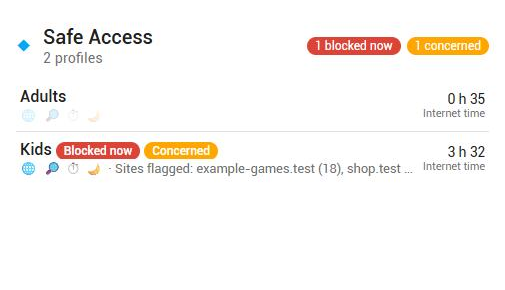
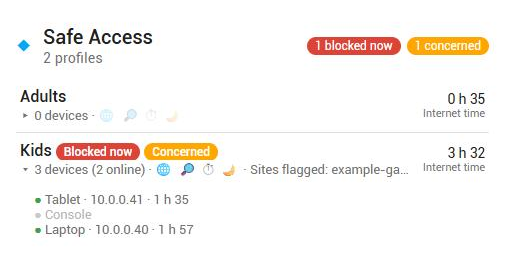
v0.5.2: Safe Access devices per profile, profile shown on each client

diff --git a/custom_components/synology_srm_plus/www/synology-srm-card.js b/custom_components/synology_srm_plus/www/synology-srm-card.js
@@ -21,7 +21,7 @@ const I18N = {
     search: 'Search a client…', all: 'All', sort: 'Sort', name: 'Name', download: 'Download',
     upload: 'Upload', nothing: 'No client', no_data: 'No Synology SRM Plus data found.', offline: 'Offline', ip: 'IP address',
     offline_clients: 'Offline clients', last_seen: 'Last seen', ago: 'ago', router_throughput: 'Router throughput',
-    devices: 'devices', ports: 'Ports', usb: 'USB storage', no_link: 'no link', security: 'Security', threat_prevention: 'Threat prevention', profiles: 'profiles', threats: 'Threat events',
+    devices: 'devices', ports: 'Ports', usb: 'USB storage', no_link: 'no link', security: 'Security', threat_prevention: 'Threat prevention', profiles: 'profiles', online: 'online', threats: 'Threat events',
     last24: '24 h', last7: '7 days', new_devices: 'New devices', admin_sessions: 'Admin sessions', blocked_ips: 'Blocked IPs',
     forwards: 'Port forwards', protected: 'Protected', unprotected: 'Not protected', exposed: 'Admin reachable from the Internet',
     external_session: 'Admin session from the Internet', safe: 'Safe Access', internet_time: 'Internet time',
@@ -34,7 +34,7 @@ const I18N = {
       guest: 'Guest', blocked: 'Blocked', parental_control: 'Parental control', qos: 'QoS',
       high_priority: 'High priority', low_priority: 'Low priority', beamforming: 'Beamforming',
       interface: 'Interface', connection: 'Link', band: 'Band', wifi_bytes_rx: 'Wi-Fi bytes (rx)',
-      wifi_bytes_tx: 'Wi-Fi bytes (tx)', last_seen: 'Last seen',
+      wifi_bytes_tx: 'Wi-Fi bytes (tx)', last_seen: 'Last seen', safe_profile: 'Safe Access profile',
     },
   },
   fr: {
@@ -45,7 +45,7 @@ const I18N = {
     search: 'Rechercher un client…', all: 'Tous', sort: 'Tri', name: 'Nom', download: 'Téléchargement',
     upload: 'Envoi', nothing: 'Aucun client', no_data: 'Aucune donnée Synology SRM Plus trouvée.', offline: 'Hors ligne', ip: 'Adresse IP',
     offline_clients: 'Clients hors ligne', last_seen: 'Vu il y a', ago: '', router_throughput: 'Débit du routeur',
-    devices: 'appareils', ports: 'Ports', usb: 'Stockage USB', no_link: 'pas de lien', security: 'Sécurité', threat_prevention: 'Protection contre les menaces', profiles: 'profils', threats: 'Menaces détectées',
+    devices: 'appareils', ports: 'Ports', usb: 'Stockage USB', no_link: 'pas de lien', security: 'Sécurité', threat_prevention: 'Protection contre les menaces', profiles: 'profils', online: 'en ligne', threats: 'Menaces détectées',
     last24: '24 h', last7: '7 jours', new_devices: 'Nouveaux appareils', admin_sessions: "Sessions d'administration", blocked_ips: 'IP bloquées',
     forwards: 'Redirections de ports', protected: 'Protégé', unprotected: 'Non protégé', exposed: "Administration joignable depuis Internet",
     external_session: "Session d'administration depuis Internet", safe: 'Safe Access', internet_time: 'Temps sur internet',
@@ -58,7 +58,7 @@ const I18N = {
       guest: 'Invité', blocked: 'Bloqué', parental_control: 'Contrôle parental', qos: 'QoS',
       high_priority: 'Priorité haute', low_priority: 'Priorité basse', beamforming: 'Beamforming',
       interface: 'Interface', connection: 'Lien', band: 'Bande', wifi_bytes_rx: 'Octets Wi-Fi (rx)',
-      wifi_bytes_tx: 'Octets Wi-Fi (tx)', last_seen: 'Dernière connexion',
+      wifi_bytes_tx: 'Octets Wi-Fi (tx)', last_seen: 'Dernière connexion', safe_profile: 'Profil Safe Access',
     },
   },
 };
@@ -655,6 +655,7 @@ class SynologySrmSafeAccessCard extends SrmEntityCard {
     const hass = this._hass;
     const t = strings(hass);
     const all = (key) => found[key] || [];
+    this._open = this._open || new Set();
     const times = mapBy(all('safe_time'), 'profile');
     const status = mapBy(all('safe_status'), 'profile');
     const blocked = mapBy(all('safe_blocked'), 'profile');
@@ -668,16 +669,25 @@ class SynologySrmSafeAccessCard extends SrmEntityCard {
       (nConcerned ? `<span class="badge" style="background:var(--warning-color,#ffa600)">${nConcerned} ${esc(t.concerned.toLowerCase())}</span>` : '');
 
     const flag = (on, icon, label) => `<span title="${esc(label)}" style="opacity:${on ? 1 : 0.25};margin-right:6px">${icon}</span>`;
+    const hm = (minutes) => (Number.isFinite(minutes) ? `${Math.floor(minutes / 60)} h ${String(Math.round(minutes % 60)).padStart(2, '0')}` : '');
     const rows = profiles
       .map((name) => {
         const tm = times[name];
         const a = tm.attributes;
-        const minutes = Number(tm.state);
-        const h = Number.isFinite(minutes) ? `${Math.floor(minutes / 60)} h ${String(Math.round(minutes % 60)).padStart(2, '0')}` : '';
+        const devs = Array.isArray(a.devices) ? a.devices : [];
+        const nOnline = devs.filter((d) => d.online).length;
+        const open = this._open.has(name);
         const hits = a.inappropriate_websites ? Object.entries(a.inappropriate_websites).map(([k, v]) => `${esc(k)} (${esc(v)})`).join(', ') : '';
-        return `<div class="row" style="grid-template-columns:1fr auto" data-entity="${esc(tm.entity_id)}"><div style="min-width:0"><div class="nm">${esc(name)}${isBlocked(name) ? ` <span class="badge bad">${esc(t.blocked_now)}</span>` : ''}${isConcerned(name) ? ` <span class="badge" style="background:var(--warning-color,#ffa600)">${esc(t.concerned)}</span>` : ''}</div>
-          <div class="meta">${flag(a.web_filter, '🌐', t.filter)}${flag(a.safe_search, '🔎', t.safe_search)}${flag(a.time_quota, '⏱', t.quota)}${flag(a.block_time, '🌙', t.schedule)}${hits ? `· ${esc(t.hits)}: ${hits}` : ''}</div></div>
-          <div class="rt"><div>${esc(h)}</div><div class="meta">${esc(t.internet_time)}</div></div></div>`;
+        const deviceList = open
+          ? `<div style="grid-column:1/-1;padding:4px 0 2px 14px">${
+              devs
+                .map((d) => `<div class="meta" style="opacity:${d.online ? 1 : 0.55}"><span style="color:${d.online ? 'var(--success-color,#43a047)' : 'var(--disabled-text-color,#9e9e9e)'}">●</span> ${esc(d.name)}${d.ip ? ` · ${esc(d.ip)}` : ''}${Number.isFinite(Number(d.internet_minutes)) && d.internet_minutes > 0 ? ` · ${esc(hm(Number(d.internet_minutes)))}` : ''}</div>`)
+                .join('') || `<div class="meta">${esc(t.none)}</div>`
+            }</div>`
+          : '';
+        return `<div class="row" style="grid-template-columns:1fr auto" data-profile="${esc(name)}"><div style="min-width:0"><div class="nm">${esc(name)}${isBlocked(name) ? ` <span class="badge bad">${esc(t.blocked_now)}</span>` : ''}${isConcerned(name) ? ` <span class="badge" style="background:var(--warning-color,#ffa600)">${esc(t.concerned)}</span>` : ''}</div>
+          <div class="meta">${open ? '▾' : '▸'} ${devs.length} ${esc(t.devices)}${devs.length ? ` (${nOnline} ${esc(t.online)})` : ''} · ${flag(a.web_filter, '🌐', t.filter)}${flag(a.safe_search, '🔎', t.safe_search)}${flag(a.time_quota, '⏱', t.quota)}${flag(a.block_time, '🌙', t.schedule)}${hits ? `· ${esc(t.hits)}: ${hits}` : ''}</div></div>
+          <div class="rt"><div>${esc(hm(Number(tm.state)))}</div><div class="meta">${esc(t.internet_time)}</div></div>${deviceList}</div>`;
       })
       .join('');
 
@@ -686,6 +696,13 @@ class SynologySrmSafeAccessCard extends SrmEntityCard {
         <div class="head"><ha-icon icon="mdi:account-child-circle"></ha-icon><div><div class="title">${esc(this._config.title || t.safe)}</div><div class="sub">${profiles.length} ${esc(t.profiles)}</div></div><div class="badges">${badges}</div></div>
         ${rows || `<div class="empty">${esc(t.none)}</div>`}
       </ha-card>`;
+    this.shadowRoot.querySelectorAll('[data-profile]').forEach((el) =>
+      el.addEventListener('click', () => {
+        const name = el.dataset.profile;
+        this._open.has(name) ? this._open.delete(name) : this._open.add(name);
+        this._sig = null;
+        this._update();
+      }));
   }
 }
 

diff --git a/custom_components/synology_srm_plus/coordinator.py b/custom_components/synology_srm_plus/coordinator.py
@@ -147,6 +147,16 @@ ENDPOINTS: dict[str, tuple[str, Callable[[synology_srm.Client], Any], int]] = {
         _raw("SYNO.SafeAccess.Overview.Statistics"),
         5,
     ),
+    "safe_devices": (
+        "SYNO.SafeAccess.AccessControl.ConfigGroup.Device",
+        _raw("SYNO.SafeAccess.AccessControl.ConfigGroup.Device"),
+        5,
+    ),
+    "safe_device_time": (
+        "SYNO.SafeAccess.AccessControl.ConfigGroup.Device.TimeSpent",
+        _raw("SYNO.SafeAccess.AccessControl.ConfigGroup.Device.TimeSpent"),
+        10,
+    ),
     "safe_schedule": (
         "SYNO.SafeAccess.AccessControl.Profile.Schedule",
         _raw("SYNO.SafeAccess.AccessControl.Profile.Schedule"),
@@ -374,7 +384,27 @@ class SrmCoordinator(DataUpdateCoordinator[dict[str, Any]]):
         self._poll += 1
         normalized = normalize_clients(results.get("clients"), results.get("wifi_devices"))
         results["client_list"], results["offline_list"] = normalized or (None, None)
+        self._annotate_safe_profiles(results)
         return results
+
+    @staticmethod
+    def _annotate_safe_profiles(results: dict[str, Any]) -> None:
+        """Add the Safe Access profile of each client (from the group -> devices map)."""
+        groups = (results.get("safe_devices") or {}).get("config_groups")
+        profiles = (results.get("safe_profiles") or {}).get("profiles")
+        if not isinstance(groups, list) or not isinstance(profiles, list):
+            return
+        names = {p.get("profile_id"): p.get("name") for p in profiles if isinstance(p, dict)}
+        by_mac: dict[str, list[str]] = {}
+        for group in groups:
+            name = names.get(group.get("config_group_id")) if isinstance(group, dict) else None
+            for mac in (group.get("devices") or []) if name else []:
+                by_mac.setdefault(str(mac).lower(), []).append(str(name))
+        for key in ("client_list", "offline_list"):
+            for client in results.get(key) or []:
+                profile = by_mac.get(client.get("mac", ""))
+                if profile:
+                    client["safe_profile"] = ", ".join(profile)
 
     def _track_last_seen(self, data: dict[str, Any]) -> None:
         """Remember when each client was last online; fill it in for offline ones."""

diff --git a/tests/smoke.py b/tests/smoke.py
@@ -83,6 +83,9 @@ DATA = {
     "port_forward": {"rules": []},
     "safe_profiles": {"profiles": [{"profile_id": 2, "name": "Kids", "enable_filter": True,
                                     "enable_safe_search": True, "enable_timequota": True, "enable_blocktime": True}]},
+    "safe_devices": {"config_groups": [{"config_group_id": 2, "devices": ["AA:BB:CC:00:00:01", "aa:bb:cc:00:00:04", "aa:bb:cc:00:00:77"]}]},
+    "safe_device_time": {"config_groups": [{"config_group_id": 2, "device_timespent": {
+        "aa:bb:cc:00:00:01": {"total_spent": {"normal": 42, "reward": 0}}}}]},
     "safe_stats": {"config_groups": [{"id": 2, "concerned_status": "concerned", "time_spent_on_internet": 212,
                                       "inappropriate_website_hit": {"example.test": {"total": 18, "aa:bb": 18}}}]},
     "safe_schedule": {"profiles": [{"profile_id": 2, "schedules": {
@@ -100,6 +103,7 @@ def main() -> int:
     assert "max_link_rate" not in offline[0] and "guest" not in offline[0], offline[0]
     assert online[1]["download"] == 4000000 and online[1]["interface"] == "wlan100", online[1]
     DATA["client_list"], DATA["offline_list"] = online, offline
+    coordinator.SrmCoordinator._annotate_safe_profiles(DATA)  # noqa: SLF001
 
     en = json.loads((ROOT / "custom_components/synology_srm_plus/translations/en.json").read_text("utf-8"))
     fr = json.loads((ROOT / "custom_components/synology_srm_plus/translations/fr.json").read_text("utf-8"))
@@ -129,6 +133,13 @@ def main() -> int:
             for field in re.findall(r"{(\w+)}", entry["name"]):
                 if field not in (desc.placeholders or {}):
                     errors.append(f"{label}: {lang} name needs placeholder {field}")
+
+    kids = next(d for _, d in descriptions if d.key == "safe_time_2")
+    devices = kids.attrs_fn(DATA)["devices"]
+    assert [x["name"] for x in devices] == ["Laptop", "aa:bb:cc:00:00:77", "Old phone"], devices
+    assert devices[0]["online"] and devices[0]["internet_minutes"] == 42, devices[0]
+    assert not devices[1]["online"], devices[1]
+    assert online[1]["safe_profile"] == "Kids", online[1]
 
     # secrets must not reach the log
     masked = coordinator.redact(

diff --git a/custom_components/synology_srm_plus/sensor.py b/custom_components/synology_srm_plus/sensor.py
@@ -836,6 +836,33 @@ def safe_schedule(d: dict[str, Any], pid: Any) -> dict[str, Any]:
     return found.get("schedules") or {}
 
 
+def _safe_devices(d: dict[str, Any], pid: Any) -> list[dict[str, Any]]:
+    """Devices of a Safe Access profile, with their name, state and internet time."""
+    group = _find(_dig(d.get("safe_devices"), "config_groups"), config_group_id=pid) or {}
+    spent_group = _find(_dig(d.get("safe_device_time"), "config_groups"), config_group_id=pid) or {}
+    times = spent_group.get("device_timespent")
+    times = {str(k).lower(): v for k, v in times.items()} if isinstance(times, dict) else {}
+    online = {c.get("mac"): c for c in d.get("client_list") or [] if c.get("mac")}
+    offline = {c.get("mac"): c for c in d.get("offline_list") or [] if c.get("mac")}
+    out: list[dict[str, Any]] = []
+    for raw in group.get("devices") or []:
+        mac = str(raw).lower()
+        client = online.get(mac) or offline.get(mac) or {}
+        entry: dict[str, Any] = {
+            "name": client.get("name") or mac,
+            "mac": mac,
+            "online": mac in online,
+        }
+        if client.get("ip"):
+            entry["ip"] = client["ip"]
+        minutes = _dig(times.get(mac), "total_spent", "normal")
+        if isinstance(minutes, (int, float)):
+            entry["internet_minutes"] = minutes
+        out.append(entry)
+    out.sort(key=lambda e: (not e["online"], str(e["name"]).lower()))
+    return out
+
+
 def _safe_attrs(d: dict[str, Any], pid: Any) -> dict[str, Any]:
     profile = _find(safe_profiles(d), profile_id=pid) or {}
     stat = safe_stat(d, pid)
@@ -843,6 +870,7 @@ def _safe_attrs(d: dict[str, Any], pid: Any) -> dict[str, Any]:
     quotas = safe_schedule(d, pid).get("timequotas")
     return {
         "profile": profile.get("name"),
+        "devices": _safe_devices(d, pid) or None,
         "concerned_status": stat.get("concerned_status"),
         "web_filter": profile.get("enable_filter"),
         "safe_search": profile.get("enable_safe_search"),

diff --git a/custom_components/synology_srm_plus/const.py b/custom_components/synology_srm_plus/const.py
@@ -3,7 +3,7 @@
 from datetime import timedelta
 
 DOMAIN = "synology_srm_plus"
-VERSION = "0.5.1"  # keep in sync with manifest.json (also busts the card cache)
+VERSION = "0.5.2"  # keep in sync with manifest.json (also busts the card cache)
 
 CONF_TRACK_CLIENTS = "track_clients"  # legacy option: track everyone
 CONF_TRACK_ALL = "track_all"

diff --git a/README.fr.md b/README.fr.md
@@ -26,7 +26,7 @@ Développé et testé sur un **RT2600ac (SRM 1.3.2)**. L'intégration native `sy
 | Ports | vitesse et état du lien du port WAN et de chaque port LAN |
 | Stockage | **utilisation du disque USB** (%, utilisé, total), activité des disques et volumes |
 | Sécurité | menaces détectées (24 h / 7 jours), nouveaux appareils, sessions d'administration, IP bloquées, redirections de ports, protection contre les menaces activée ou non, **alertes** si l'interface d'administration est joignable depuis Internet ou si quelqu'un s'est connecté de l'extérieur |
-| Safe Access (contrôle parental) | par profil : temps sur internet, état, plage « bloqué en ce moment », filtres actifs, sites signalés |
+| Safe Access (contrôle parental) | par profil : **ses appareils** (en ligne ou non, avec leur temps sur internet), temps sur internet, état, plage « bloqué en ce moment », filtres actifs, sites signalés ; chaque client indique aussi son profil |
 | Optionnel | entités de présence (device trackers) pour les clients de votre choix, ou pour tous |
 
 Fréquence de relevé : 60 secondes (les données qui changent peu sont lues moins souvent pour ménager le routeur). Tout est lu en local via l'API web de SRM (`https://<routeur>:8001`) avec la bibliothèque [synology-srm](https://github.com/aerialls/synology-srm).
@@ -95,7 +95,7 @@ Utilisez un compte **administrateur** du routeur (un compte dédié comme `ha` e
 - Les tailles USB sont données en Mio (une clé de 32 Go affiche environ 29 000).
 - Les charges moyennes sont fournies par SRM multipliées par 100 et sont divisées en retour.
 - Le signal Wi-Fi est affiché en pourcentage ; Synology ne documente pas son échelle.
-- Le temps sur internet de Safe Access est affiché en minutes, sur la période que SRM rapporte ; l'unité et la période ne sont pas documentées.
+- Le temps sur internet de Safe Access est en minutes, sur une fenêtre de 24 heures (un appareil toujours en ligne affiche environ 24 h).
 - **La dernière connexion** ne commence qu'à l'installation de l'intégration : les appareils déjà hors ligne n'ont pas de date avant de se reconnecter.
 
 ## Explorer votre routeur

diff --git a/README.md b/README.md
@@ -26,7 +26,7 @@ Developed and tested on an **RT2600ac (SRM 1.3.2)**. The built-in `synology_srm`
 | Ports | link speed and link state of the WAN port and each LAN port |
 | Storage | **USB disk usage** (%, used, total), disk and volume activity |
 | Security | threat events (24 h / 7 days), new devices, admin sessions, blocked IPs, port forwarding rules, threat protection on/off, **warnings** when the admin interface is reachable from the Internet or someone connected from outside |
-| Safe Access (parental control) | per profile: internet time, status, "blocked now" schedule, which filters are active, flagged websites |
+| Safe Access (parental control) | per profile: **its devices** (online or not, with their internet time), internet time, status, "blocked now" schedule, which filters are active, flagged websites; each client also shows its profile |
 | Optional | presence entities (device trackers) for the clients you choose, or for all of them |
 
 Polling interval: 60 seconds (slow-changing data is read less often to spare the router). Everything is read locally from the SRM web API (`https://<router>:8001`) with the [synology-srm](https://github.com/aerialls/synology-srm) library.
@@ -95,7 +95,7 @@ Use an **administrator** account on the router (a dedicated one such as `ha` is 
 - USB sizes are reported in MiB (a 32 GB key shows about 29 000).
 - Load averages are reported by SRM multiplied by 100 and are divided back.
 - The Wi-Fi signal value is shown as a percentage; Synology does not document its scale.
-- Safe Access internet time is shown in minutes, over the period SRM reports; the unit and the period are not documented.
+- Safe Access internet time is in minutes, over a 24-hour window (a device that is always online shows about 24 h).
 - **Last seen** only starts when the integration is installed: devices that were already offline have no date until they reconnect.
 
 ## Exploring your router

diff --git a/CHANGELOG.md b/CHANGELOG.md
@@ -1,5 +1,9 @@
 # Changelog
 
+## 0.5.2
+
+- Safe Access: the devices of each profile (online state, IP, internet time) as an attribute and in the card (click a profile to expand); each client shows its Safe Access profile.
+
 ## 0.5.1
 
 - USB disk usage and blocked IPs now work: some DSM APIs live behind another endpoint than `entry.cgi`, which is read from the router's API list.
